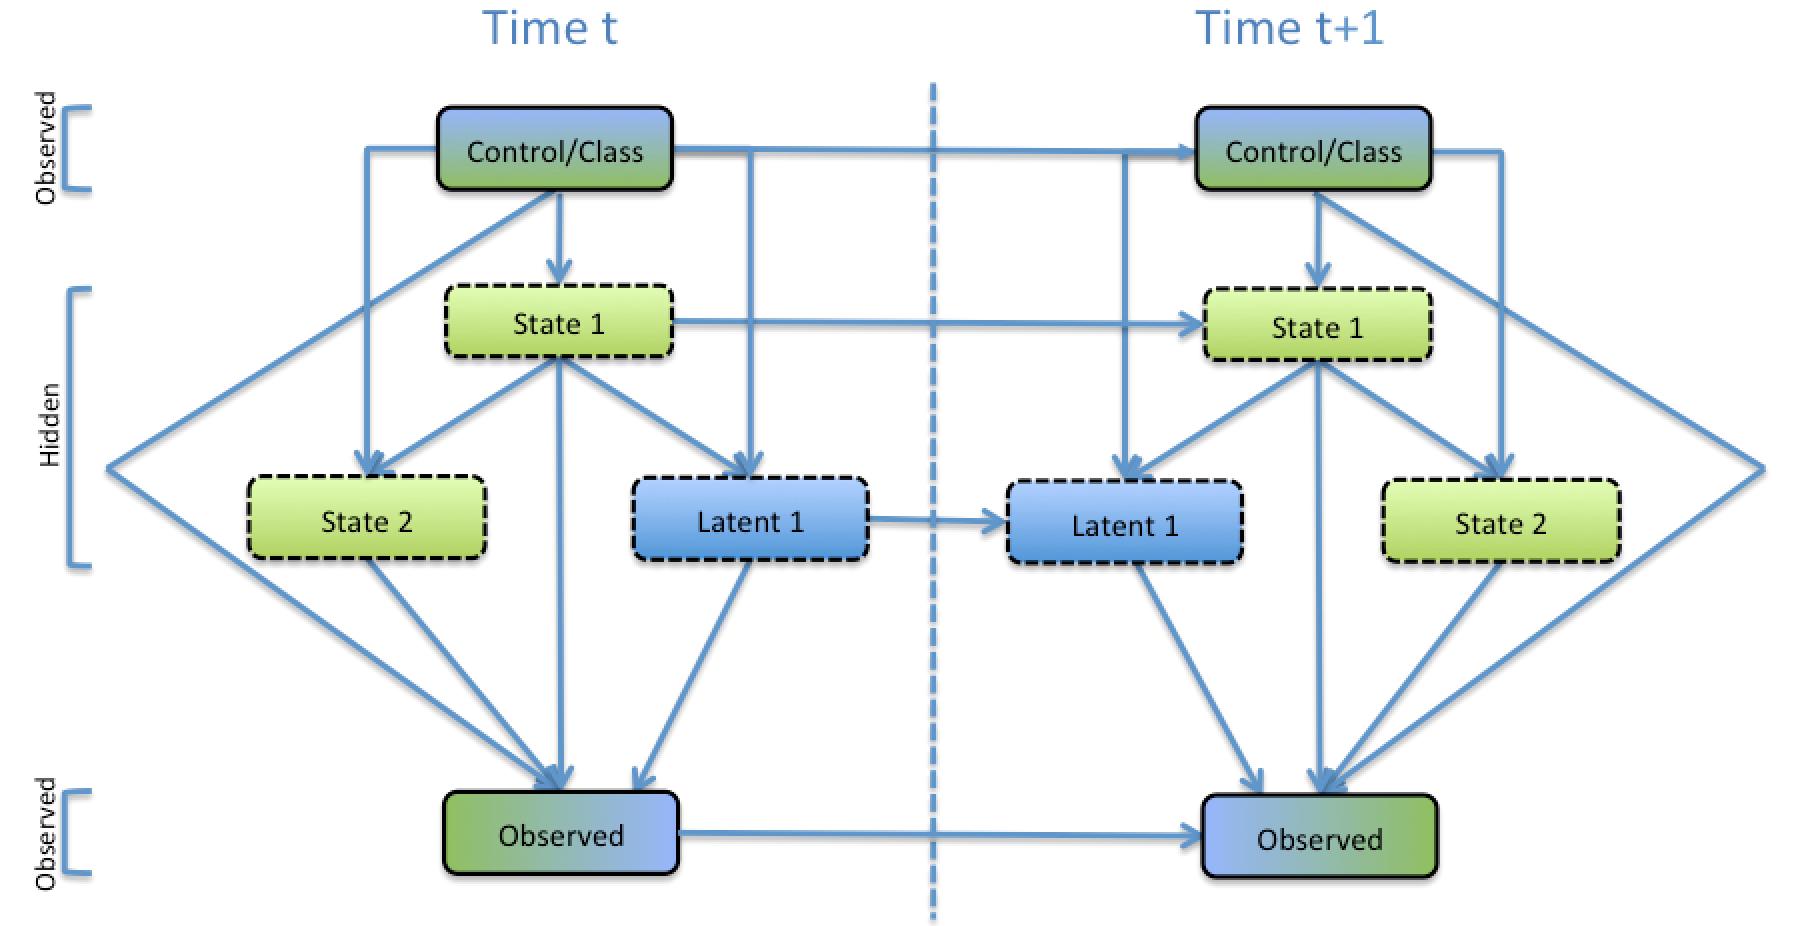
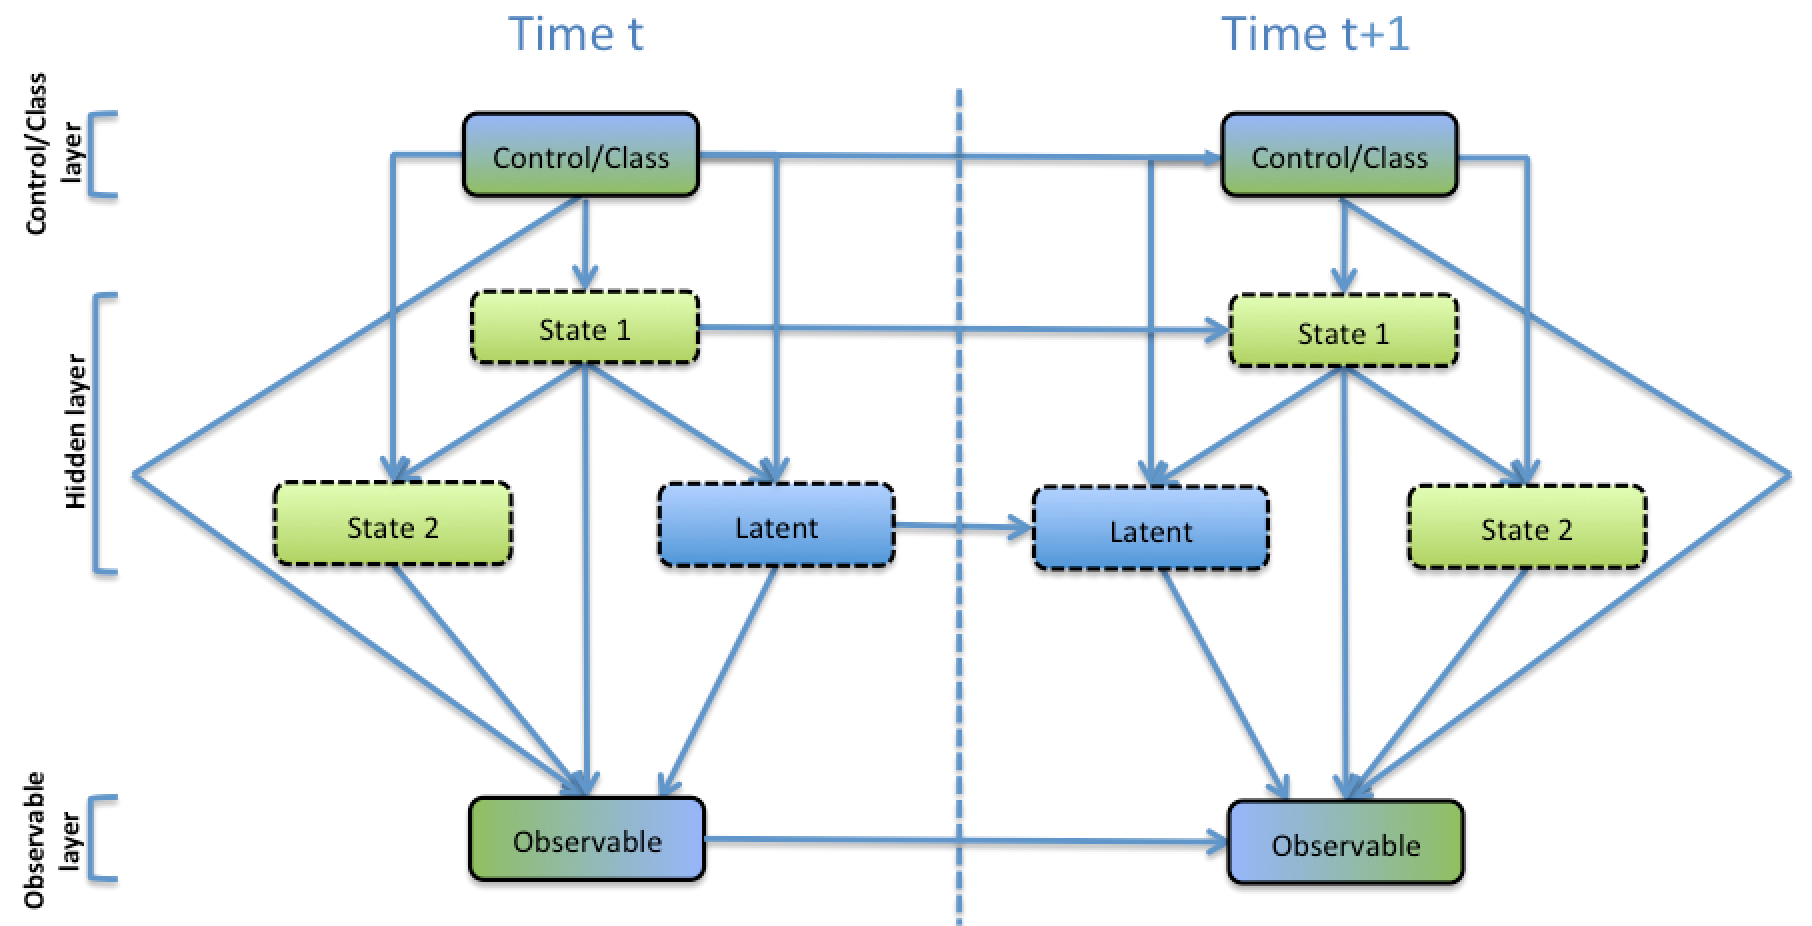
D2.1 - Model class section

diff --git a/doc/D2.1_AMIDSTModelingFramework/AMIDSTModelClass.tex b/doc/D2.1_AMIDSTModelingFramework/AMIDSTModelClass.tex
@@ -12,7 +12,7 @@ One of the main goals of AMIDST project is the definition of a general model cla
 
 \end{itemize}
 
-Taking these different characteristics into account, and using the subnetwork graphical notation (see Section \ref{Section:Preliminaries}), we will first present and discuss the general AMIDST model class in Section \ref{GeneralModelClass}, then its specific instantiation to each use-case in Section \ref{UseCaseModelClasses}.
+Taking these different characteristics into account and using the subnetwork graphical notation introduced in Section \ref{SubSection:GraphicalNotation}), we will first present and discuss the general AMIDST model class in Section \ref{GeneralModelClass}, then its specific instantiation to each use-case in different subsections. Finally, a summary is presented in Section \ref{summaryAMIDSTModels}.
 
 %---------------------------------------------------------------------
 \subsection{The general AMIDST model class}\label{GeneralModelClass}
@@ -23,35 +23,46 @@ Figure \ref{Figure:AMIDSTModelClass} shows the proposed general AMIDST model cla
 
 \begin{figure}[ht!]
 \begin{center}
-\includegraphics[scale=0.39]{./figures/AMIDSTModelClass}
+\includegraphics[scale=0.465]{./figures/AMIDSTModelClass}
 \caption{\label{Figure:AMIDSTModelClass} Proposed AMIDST model class.}
 \end{center}
 \end{figure}
 
 
-Although the resulting model might not be very revealing at the moment, we can indeed distinguish 3 different layers. The upper layer corresponds to the continuous observed variable, namely ``Continuous 1", and we will refer to it as \textit{input layer}. The second layer corresponds to a set of interconnected discrete and continuous variables, for which only links from discrete to continuous nodes are allowed. We will refer to it as the \textit{state layer}. Finally, the bottom layer corresponds to a set of interconnected discrete and continuous observed variables, in which in principles, there exist no restrictions with respect to the direction of the links, although only links from discrete to continuous nodes are required by our use cases. This layer will be referred to as \textit{output layer}. A representation of this higher level of abstraction is shown in Figure \ref{Figure:AMIDSTModelClassHighLevel}. \textcolor{red}{Add layer names to Figure \ref{Figure:AMIDSTModelClassHighLevel}}
+In the resulting model, we can distinguish 3 different layers.:
 
-\begin{figure}[ht!]
-\begin{center}
-\includegraphics[scale=0.4]{./figures/AMIDSTModelClassGeneral}
-\caption{\label{Figure:AMIDSTModelClassHighLevel} The high-level AMIDST model class}
-\end{center}
-\end{figure}
+\begin{itemize}
+
+\item \textbf{Control/class layer:} The upper layer corresponds to a subnetwork of either discrete or continuous observed variables, that would generally act as control continuous variables or the class variable. Variables can be connected through consecutive time steps to encode temporal dependences, e.g. the probability of a particular class label at time $t$ varies with respect to the label at time $t-1$. Existing links from continuous observed links to state variables in the lower layer, will be possibly handled with logit and probit functions.
+
+\item \textbf{Hidden layer:}  The second layer corresponds to a set of interconnected discrete and continuous hidden variables, for which only links from discrete to continuous nodes are allowed. We will use the term \textit{state} variables to denote the discrete ones and the term \textit{latent}\footnote{The term \textit{latent} for variables, is generally used in statistics to refer to hidden variables, as opposed to observed ones. However we will use it here to refer exclusively to continuous hidden variables.} to denote continuous variables. This layer can contain state hidden variables that are not replicated over time and that could be used, for instance, to model mixture of Gaussian distributions for the observed continuous nodes they point to in the immediate lower layer. State and latent variables that are replicated over time can be used to model a process that is evolving over time. Note that links from latent variables to 
+
+\item \textbf{Observable layer:} Finally, the bottom layer corresponds to a set of interconnected discrete and continuous observed variables. Although in principle, there exist no restrictions with respect to the direction of the links, only links from discrete to continuous nodes are required by our use cases. It is possible to alleviate the sensor Markov assumption by including links between variables of consecutive time steps.
+
+\end{itemize} 
 
 In the following sections, we will reason out how each particular use case fits in this global model.
 
 %---------------------------------------------------------------------
-\subsection{The model classes of the three use-cases} \label{UseCaseModelClasses}
+%\subsection{The model classes of the three use-cases} \label{UseCaseModelClasses}
 %---------------------------------------------------------------------
-
-In the following section, we will re-introduce the model classes of the three use-cases (that have been previously presented in Section \ref{Section:PreliminaryModels}) but using a higher level of abstraction. 
 
 %---------------------------------------------------------------------
 \subsubsection{Daimler model class}\label{daimlerAMIDSTModels}
 %---------------------------------------------------------------------
 
 \textcolor{blue}{To be re-written}
-Daimler's models have been previously described in Figures \ref{Figure:daimlerLEdynGeneric} and \ref{Figure:daimlerreldyn}. As commented in Section \ref{Section:DaimlerDynamic}, one the main issues of these current models is that they contain discrete children with continuous parents, and do not fall into the conditional linear Gaussian family \cite{JensenNielsen2007}. To deal with this problem, we adopt here the same solution pursed in \cite{kasper2012object} which consists in discretizing these nodes. In this way, the general structure of Daimler's models corresponds to the one depicted in Figure \ref{Figure:DaimlerModelClass}, where there is no more discrete children with continuous parents, and it is possible thereby to use standard parametrizations \cite{JensenNielsen2007}. 
+Daimler's models have been previously described in Figures \ref{Figure:daimlerLEdynGeneric}. With respect to the general model above described, we need the following concepts:
+
+\begin{itemize}
+\item \textbf{Control/class layer}: is not used in this domain.
+\item \textbf{Hidden layer}: the two sets of state variables are required here. The lower set of state variables  would encode a polytree for the different hypothesis, containing LaneMarkCross, Lane Change, REL and MNVR. (\textcolor{red}{Add this information to the Class E: Event: description in Daimler}.) Connection through time is only made at the level of top sets of state variables, i.e., the signal real values (S\_REAL). Note that this model would not contemplate a possible extension in which the lower level hypothesis are connected over time. This is because this would greatly difficult the inference process. 
+\item \textbf{Observable layer: }
+\end{itemize}
+
+
+
+
 
 
 \begin{figure}[ht!]
@@ -60,6 +71,8 @@ Daimler's models have been previously described in Figures \ref{Figure:daimlerLE
 \caption{\label{Figure:AMIDSTModelClassDaimler} AMIDST model class - Daimler}
 \end{center}
 \end{figure}
+
+As commented in Section \ref{Section:DaimlerDynamic}, one the main issues of these current models is that they contain discrete children with continuous parents, and do not fall into the conditional linear Gaussian family \cite{JensenNielsen2007}. To deal with this problem, we adopt here the same solution pursed in \cite{kasper2012object} which consists in discretizing these nodes. In this way, the general structure of Daimler's models corresponds to the one depicted in Figure \ref{Figure:DaimlerModelClass}, where there is no more discrete children with continuous parents, and it is possible thereby to use standard parametrizations \cite{JensenNielsen2007}. 
 
 %\begin{figure}[ht!]
 %\begin{center}
@@ -82,7 +95,7 @@ As commented, this 2T-DBN is only temporally connected through the hidden subnet
 In addition, we have more structure that can be exploited during inference and which is not reflected in this meta-network. Specifically, the hidden and observed subnetworks may have a polytree structure \cite{JensenNielsen2007}. In this case, both static and dynamic BNs have polytree structure and this can be exploited during inference. 
 
 %---------------------------------------------------------------------
-\subsubsection{CajaMar model class}
+\subsubsection{CajaMar model class}\label{cajamarAMIDSTModels}
 %---------------------------------------------------------------------
 \textcolor{blue}{To be re-written}
 Concerning CajaMar use-case, both application scenarios share the same models, of which two versions have been previously discussed, namely, static and dynamic (see Section \ref{Section:CajaMarModels}). 
@@ -105,7 +118,7 @@ At this point, we obviate the static version, because the general AMIDST model c
 %\end{figure}
 
 %---------------------------------------------------------------------
-\subsubsection{Verdande model class}
+\subsubsection{Verdande model class}\label{verdandeAMIDSTModels}
 %---------------------------------------------------------------------
 \textcolor{blue}{To be re-written}
 Verdande's models were visually described in Figures ?, ? and ? for the three identified application scenarios (see Section \ref{Section:VerdandeModels}). Figure \ref{Figure:VerdandeModelClass} visually depicts the high-level model class that subsumes the different models of the three application scenarios. As it can be seen, it is possible to distinguish three interpretations each corresponding to an application scenario:
@@ -137,7 +150,17 @@ Similarly to the Daimler model, the general model is structured as a 2T-DBN (see
 However, contrary to Daimler, Verdande class model does not have a polytree structure that can be exploited during inference. 
 
 
-\subsection{Summary}
+\subsection{Summary}\label{summaryAMIDSTModels}
+
+A representation of this higher level of abstraction is shown in Figure \ref{Figure:AMIDSTModelClassHighLevel}. \textcolor{red}{Add layer names to Figure \ref{Figure:AMIDSTModelClassHighLevel}}
+
+\begin{figure}[ht!]
+\begin{center}
+\includegraphics[scale=0.4]{./figures/AMIDSTModelClassGeneral}
+\caption{\label{Figure:AMIDSTModelClassHighLevel} The high-level AMIDST model class}
+\end{center}
+\end{figure}
+
 
 %This section, with the high-level figure, should help to defend the third point made in the introduction, i.e., that it should be general enough to be applicable to any future, potentially similar, use-cases.
  
